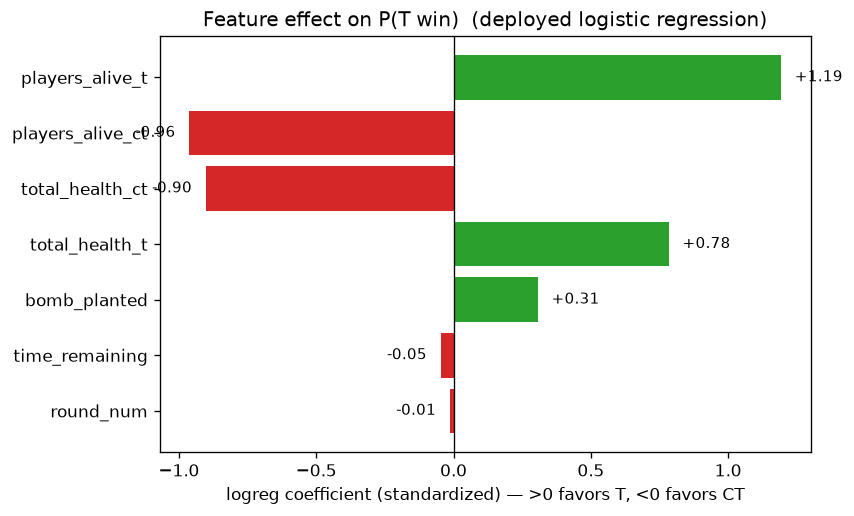
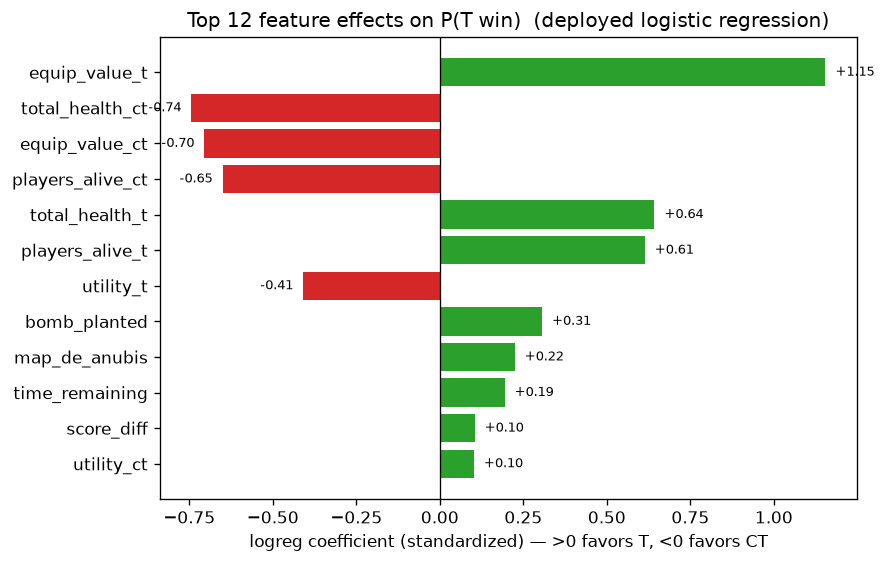
Phase 5 refresh: interpret the 21-feature model + economy finding
Update phase5_interpret.py to the deployed model (build_X + map one-hot).
New headline finding: at an even 5v5 full-HP, being on an eco drops P(T win)
to ~9% (-47pp) — equipment decides even-numbers fights. equip_value_t is the
top logreg coefficient (+1.15); map_de_anubis (+0.22) shows the learned T-side
bias. Regenerates winprob_by_alive.png, feature_effects.png, interpretation.json.

Changed region(s): [[0.0, 0.0, 1.0, 0.9922]]

diff --git a/notebooks/phase5_interpret.py b/notebooks/phase5_interpret.py
@@ -5,11 +5,10 @@ Answers concrete CS2 questions in probability terms, using the DEPLOYED model
 the most defensible way to say "a plant is worth X%": hold a canonical game
 state fixed and change one thing.
 
-Also emits two figures:
-  - models/winprob_by_alive.png : P(T win) over the 6x6 alive-count grid
-  - models/shap_summary.png     : SHAP beeswarm (LightGBM, cross-check)
+Emits: models/winprob_by_alive.png (P(T win) over the alive grid),
+models/feature_effects.png (deployed logreg coefficients), interpretation.json.
 
-Run:  .venv/bin/python notebooks/phase5_interpret.py
+Run:  PYTHONPATH=. .venv/bin/python notebooks/phase5_interpret.py
 """
 
 from __future__ import annotations
@@ -21,99 +20,95 @@ import numpy as np
 import pandas as pd
 from sklearn.model_selection import GroupShuffleSplit
 
-from cs2wp.features import CORE_FEATURES, LABEL
-from cs2wp.train import (RANDOM_STATE, SPLIT_KEY, _make_lgbm, _make_logreg)
+from cs2wp.features import LABEL
+from cs2wp.train import RANDOM_STATE, SPLIT_KEY, build_X, _make_lgbm, _make_logreg
 
-FEATURES = CORE_FEATURES
 DATA = Path("data/snapshots.parquet")
 OUT = Path("models")
+FULL_BUY = 4300   # $ equip per living player on a full buy
+ECO = 500         # $ equip per living player on an eco
+_COLS: list[str] = []   # full model feature order (set in main)
 
 
-def state(t_alive, ct_alive, *, t_hp=None, ct_hp=None, planted=0,
-          time_left=60.0, rnd=12) -> pd.DataFrame:
-    """Build a single canonical feature row (full HP = 100/living player)."""
-    t_hp = 100 * t_alive if t_hp is None else t_hp
-    ct_hp = 100 * ct_alive if ct_hp is None else ct_hp
+def state(t_alive, ct_alive, *, t_hp=None, ct_hp=None, planted=0, time_left=60.0,
+          rnd=12, equip_t=None, equip_ct=None, util_t=None, util_ct=None,
+          kits=None, score_diff=0, map="de_mirage") -> pd.DataFrame:
+    """One canonical snapshot. Defaults: full HP and a full buy for both sides."""
+    a = lambda v, per, n: per * n if v is None else v
     row = {
         "players_alive_t": t_alive, "players_alive_ct": ct_alive,
-        "total_health_t": t_hp, "total_health_ct": ct_hp,
-        "bomb_planted": int(planted), "time_remaining": time_left,
-        "round_num": rnd,
+        "total_health_t": a(t_hp, 100, t_alive), "total_health_ct": a(ct_hp, 100, ct_alive),
+        "bomb_planted": int(planted), "time_remaining": time_left, "round_num": rnd,
+        "equip_value_t": a(equip_t, FULL_BUY, t_alive),
+        "equip_value_ct": a(equip_ct, FULL_BUY, ct_alive),
+        "utility_t": a(util_t, 1, t_alive), "utility_ct": a(util_ct, 1, ct_alive),
+        "defuse_kits_ct": kits if kits is not None else ct_alive,
+        "score_diff": score_diff, "map": map,
     }
-    return pd.DataFrame([row])[FEATURES]
+    return build_X(pd.DataFrame([row])).reindex(columns=_COLS, fill_value=0)
 
 
 def main() -> None:
+    global _COLS
     df = pd.read_parquet(DATA)
-    X = df[FEATURES].copy()
-    X["bomb_planted"] = X["bomb_planted"].astype(int)
+    X = build_X(df)
+    _COLS = list(X.columns)
     y = df[LABEL].astype(int)
     groups = df[SPLIT_KEY]
-
-    # same split as train.py, fit on train only
-    tr, te = next(GroupShuffleSplit(1, test_size=0.25,
-                                    random_state=RANDOM_STATE).split(X, y, groups))
+    tr, _ = next(GroupShuffleSplit(1, test_size=0.25,
+                                   random_state=RANDOM_STATE).split(X, y, groups))
     logreg = _make_logreg().fit(X.iloc[tr], y.iloc[tr])
     lgbm = _make_lgbm().fit(X.iloc[tr], y.iloc[tr])
-
-    def p(**kw) -> float:
-        return float(logreg.predict_proba(state(**kw))[0, 1])
-
-    def pg(**kw) -> float:
-        return float(lgbm.predict_proba(state(**kw))[0, 1])
+    p = lambda **kw: float(logreg.predict_proba(state(**kw))[0, 1])
+    pg = lambda **kw: float(lgbm.predict_proba(state(**kw))[0, 1])
 
     print("=" * 66)
     print("PHASE 5 FINDINGS  (P(T win); LR = deployed logistic reg, GB = LightGBM)")
     print("=" * 66)
 
-    # --- Finding 1: how a +1 man edge compares across fight sizes ---
+    # [1] man advantage across fight sizes (economy held equal at full buy)
     print("\n[1] 5v4 vs 3v2 — does a man-up matter more in a smaller fight?")
     print(f"    {'scenario':10s} {'LR':>6s} {'GB':>6s}")
-    for t, c in [(5, 5), (5, 4), (3, 3), (3, 2), (2, 2), (2, 1)]:
+    for t, c in [(5, 5), (5, 4), (3, 3), (3, 2), (2, 1)]:
         print(f"    {f'{t}v{c}':10s} {p(t_alive=t, ct_alive=c):6.2f} {pg(t_alive=t, ct_alive=c):6.2f}")
-    p54, p32 = p(t_alive=5, ct_alive=4), p(t_alive=3, ct_alive=2)
-    g54, g32 = pg(t_alive=5, ct_alive=4), pg(t_alive=3, ct_alive=2)
-    print(f"    LR: 5v4 {p54:.2f} ~= 3v2 {p32:.2f} (linear -> ~constant ~+30pp/man).")
-    print(f"    GB: 5v4 {g54:.2f} vs 3v2 {g32:.2f} "
-          f"({'captures' if g32-g54>0.03 else 'also ~flat on'} the endgame curvature).")
+    print(f"    LR 5v4 {p(t_alive=5, ct_alive=4):.2f} ~= 3v2 {p(t_alive=3, ct_alive=2):.2f} (linear); "
+          f"GB 3v2 {pg(t_alive=3, ct_alive=2):.2f} > 5v4 {pg(t_alive=5, ct_alive=4):.2f} (endgame curve)")
 
-    # --- Finding 2: value of a bomb plant (isolate the flag, HP/men fixed) ---
-    plant_deltas = []
-    for n in (5, 4, 3, 2):
-        d = p(t_alive=n, ct_alive=n, planted=1, time_left=40) - \
-            p(t_alive=n, ct_alive=n, planted=0, time_left=40)
-        plant_deltas.append(d)
+    # [2] the value of a bomb plant
     print("\n[2] A BOMB PLANT SWINGS WIN PROBABILITY TOWARD T")
-    for n, d in zip((5, 4, 3, 2), plant_deltas):
+    plant_d = []
+    for n in (5, 4, 3, 2):
         base = p(t_alive=n, ct_alive=n, planted=0, time_left=40)
-        print(f"    {n}v{n} even: no plant P {base:.2f} -> planted P {base+d:.2f}"
-              f"   (+{d*100:.0f} pp)")
-    print(f"    => holding men & HP fixed, a plant is worth ~"
-          f"+{np.mean(plant_deltas)*100:.0f} pp to T.")
+        d = p(t_alive=n, ct_alive=n, planted=1, time_left=40) - base
+        plant_d.append(d)
+        print(f"    {n}v{n} even: {base:.2f} -> {base + d:.2f}  (+{d * 100:.0f} pp)")
+    print(f"    => a plant is worth ~+{np.mean(plant_d) * 100:.0f} pp, men & HP fixed.")
 
-    # --- Finding 3: collective HP matters beyond bodies alive ---
+    # [3] NEW — equipment (eco vs full buy), the feature added in iteration two
     even = p(t_alive=5, ct_alive=5)
-    ct_hurt = p(t_alive=5, ct_alive=5, ct_hp=250)   # CT took heavy early damage
-    t_hurt = p(t_alive=5, ct_alive=5, t_hp=250)
-    print("\n[3] HEALTH IS A REAL EDGE EVEN AT EQUAL BODIES (5v5)")
-    print(f"    5v5 full HP           -> P {even:.2f}")
-    print(f"    5v5 but CT at 250 HP  -> P {ct_hurt:.2f}   (+{(ct_hurt-even)*100:.0f} pp for T)")
-    print(f"    5v5 but T  at 250 HP  -> P {t_hurt:.2f}   ({(t_hurt-even)*100:.0f} pp for T)")
+    t_eco = p(t_alive=5, ct_alive=5, equip_t=ECO * 5)
+    ct_eco = p(t_alive=5, ct_alive=5, equip_ct=ECO * 5)
+    print("\n[3] EQUIPMENT DECIDES EVEN-NUMBERS FIGHTS (5v5, full HP)")
+    print(f"    both full-buy      -> {even:.2f}")
+    print(f"    T on eco (CT buy)  -> {t_eco:.2f}   ({(t_eco - even) * 100:+.0f} pp)")
+    print(f"    CT on eco (T buy)  -> {ct_eco:.2f}   ({(ct_eco - even) * 100:+.0f} pp)")
+
+    # [4] collective HP at equal bodies
+    ct_hurt = p(t_alive=5, ct_alive=5, ct_hp=250)
+    print("\n[4] HEALTH IS AN EDGE EVEN AT EQUAL BODIES (5v5, full buy)")
+    print(f"    5v5 CT at 250 HP -> {ct_hurt:.2f}   (+{(ct_hurt - even) * 100:.0f} pp for T)")
 
     findings = {
-        "per_man_pp_LR": round((p54 - p(t_alive=5, ct_alive=5)) * 100, 1),
-        "5v4_vs_3v2_LR": {"5v4": round(p54, 2), "3v2": round(p32, 2)},
-        "5v4_vs_3v2_GB": {"5v4": round(g54, 2), "3v2": round(g32, 2)},
-        "plant_value_pp_avg": round(float(np.mean(plant_deltas)) * 100, 1),
+        "plant_value_pp_avg": round(float(np.mean(plant_d)) * 100, 1),
+        "equipment_5v5": {"t_eco_pp": round((t_eco - even) * 100, 1),
+                          "ct_eco_pp": round((ct_eco - even) * 100, 1)},
         "hp_5v5_ct_at_250_pp": round((ct_hurt - even) * 100, 1),
+        "man_up_5v4_vs_3v2_GB": {"5v4": round(pg(t_alive=5, ct_alive=4), 2),
+                                 "3v2": round(pg(t_alive=3, ct_alive=2), 2)},
     }
     (OUT / "interpretation.json").write_text(json.dumps(findings, indent=2))
-
-    # --- Figure 1: P(T win) heatmap over alive grid ---
     _heatmap(logreg)
-    # --- Figure 2: feature-effect bar chart (deployed model) ---
-    _importance_plot(logreg, lgbm)
-
+    _feature_effects(logreg)
     print(f"\nSaved {OUT/'interpretation.json'}, {OUT/'winprob_by_alive.png'}, "
           f"{OUT/'feature_effects.png'}")
 
@@ -122,51 +117,38 @@ def _heatmap(logreg) -> None:
     import matplotlib
     matplotlib.use("Agg")
     import matplotlib.pyplot as plt
-
-    grid = np.zeros((6, 6))
-    for t in range(6):
-        for c in range(6):
-            grid[t, c] = logreg.predict_proba(state(t, c))[0, 1]
+    grid = np.array([[logreg.predict_proba(state(t, c))[0, 1] for c in range(6)]
+                     for t in range(6)])
     fig, ax = plt.subplots(figsize=(6.5, 5.5))
     im = ax.imshow(grid, origin="lower", cmap="RdYlGn", vmin=0, vmax=1)
     for t in range(6):
         for c in range(6):
             ax.text(c, t, f"{grid[t, c]:.2f}", ha="center", va="center", fontsize=9)
-    ax.set_xlabel("CT players alive")
-    ax.set_ylabel("T players alive")
+    ax.set_xlabel("CT players alive"); ax.set_ylabel("T players alive")
     ax.set_xticks(range(6)); ax.set_yticks(range(6))
-    ax.set_title("P(T win) by players alive (full HP, mid-round)")
+    ax.set_title("P(T win) by players alive (full HP + buy, mid-round)")
     fig.colorbar(im, label="P(T win)")
     fig.savefig(OUT / "winprob_by_alive.png", dpi=120, bbox_inches="tight")
     plt.close(fig)
 
 
-def _importance_plot(logreg, lgbm) -> None:
-    """Interpret the DEPLOYED model directly: standardized logreg coefficients
-    (effect on log-odds of a T win), with LightGBM gain shown alongside.
-
-    (SHAP beeswarm was the original plan but shap's beeswarm pulls in numba,
-    which is incompatible with the installed NumPy 2.5 — the coefficient view
-    is more defensible for the deployed linear model anyway.)
-    """
+def _feature_effects(logreg, top=12) -> None:
     import matplotlib
     matplotlib.use("Agg")
     import matplotlib.pyplot as plt
-
     coef = logreg.named_steps["logisticregression"].coef_[0]
-    order = np.argsort(np.abs(coef))
-    feats = [FEATURES[i] for i in order]
+    order = np.argsort(np.abs(coef))[::-1][:top][::-1]   # top-N, ascending for barh
+    feats = [_COLS[i] for i in order]
     vals = coef[order]
-    colors = ["#2ca02c" if v > 0 else "#d62728" for v in vals]  # green=T, red=CT
-
-    fig, ax = plt.subplots(figsize=(7, 4.5))
+    colors = ["#2ca02c" if v > 0 else "#d62728" for v in vals]
+    fig, ax = plt.subplots(figsize=(7.5, 5))
     ax.barh(feats, vals, color=colors)
     ax.axvline(0, color="k", lw=0.8)
     ax.set_xlabel("logreg coefficient (standardized) — >0 favors T, <0 favors CT")
-    ax.set_title("Feature effect on P(T win)  (deployed logistic regression)")
+    ax.set_title(f"Top {top} feature effects on P(T win)  (deployed logistic regression)")
     for y, v in enumerate(vals):
-        ax.text(v + (0.05 if v >= 0 else -0.05), y, f"{v:+.2f}",
-                va="center", ha="left" if v >= 0 else "right", fontsize=9)
+        ax.text(v + (0.03 if v >= 0 else -0.03), y, f"{v:+.2f}",
+                va="center", ha="left" if v >= 0 else "right", fontsize=8)
     fig.savefig(OUT / "feature_effects.png", dpi=120, bbox_inches="tight")
     plt.close(fig)
 
